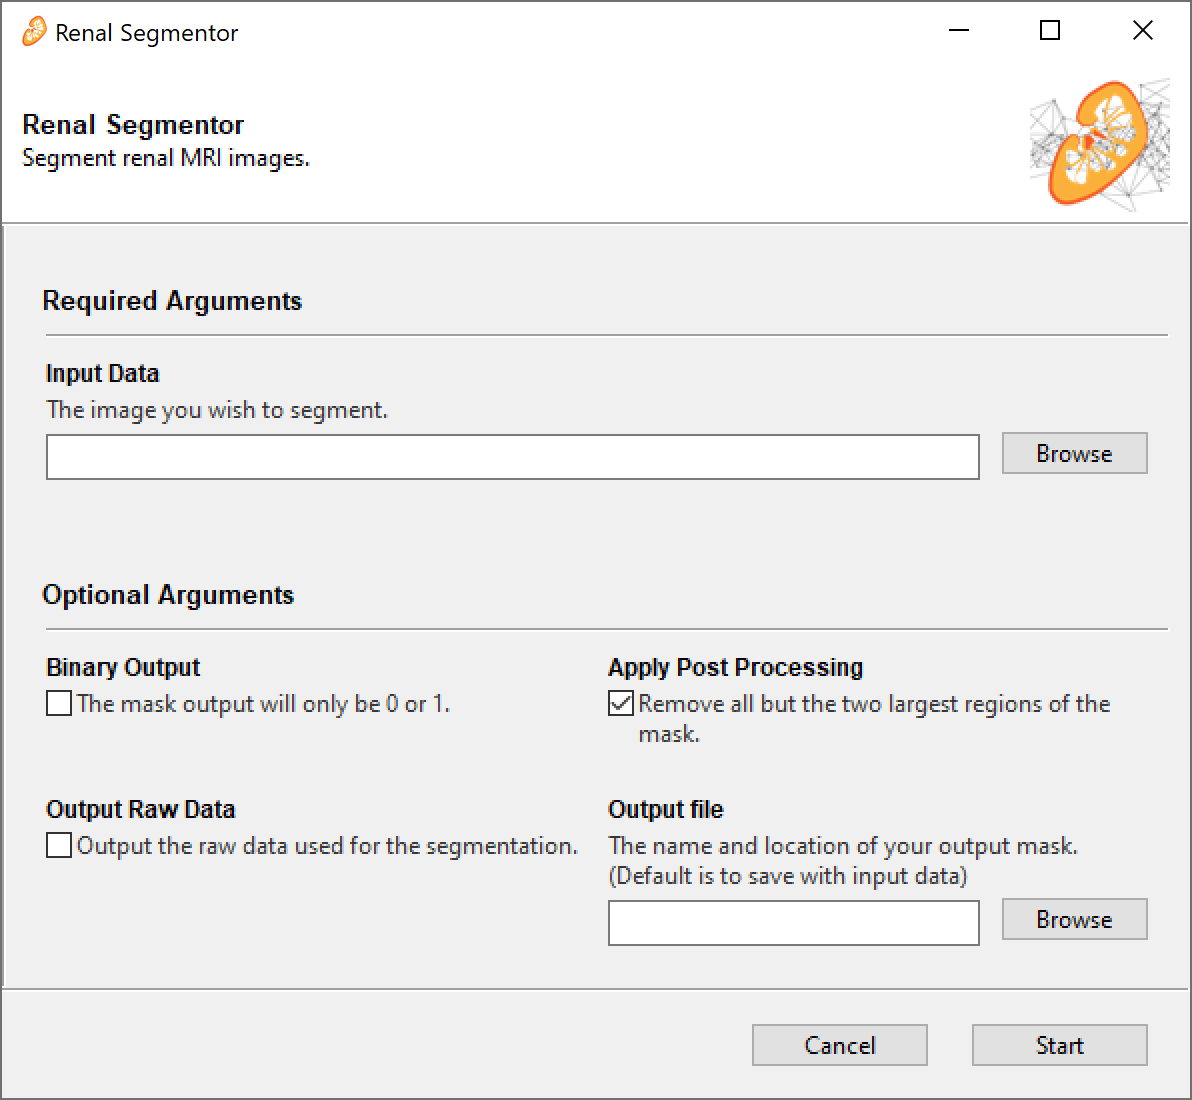
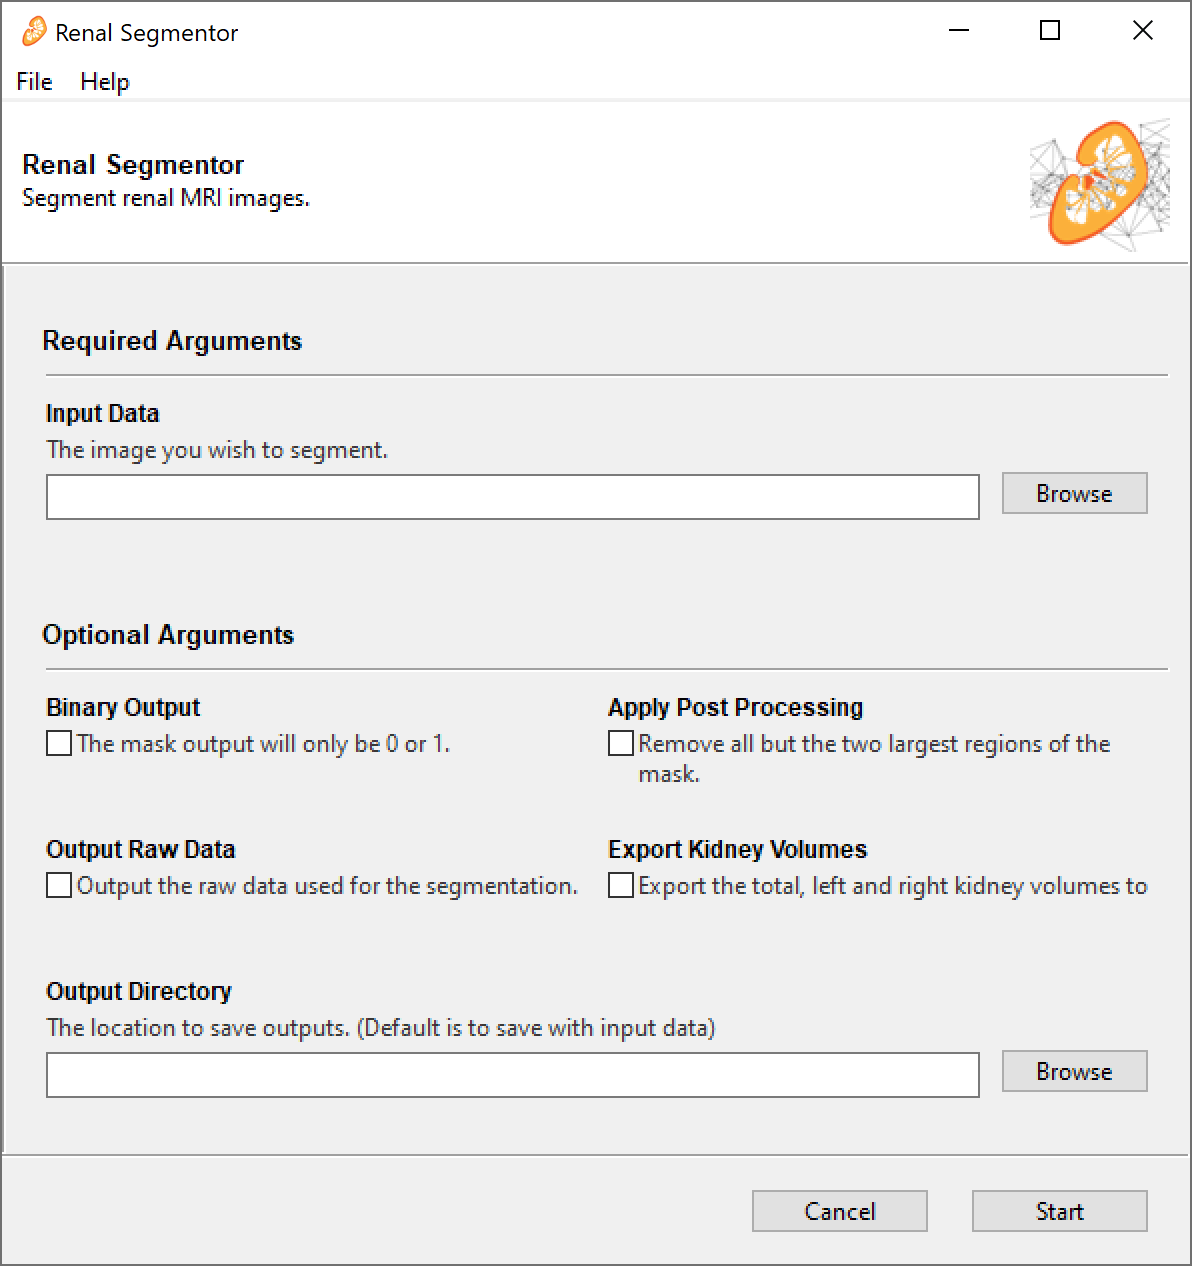
Update readme and changelog

diff --git a/renal_segmentor.py b/renal_segmentor.py
@@ -221,7 +221,7 @@ if len(sys.argv) >= 2:
 
 @Gooey(program_name='Renal Segmentor',
        image_dir=resource_path('./images'),
-       default_size=(610, 620),
+       default_size=(610, 640),
        progress_regex=r"^Processed (?P<current>\d+) of (?P<total>\d+) files$",
        progress_expr="current / total * 100",
        timing_options={'show_time_remaining': True,

diff --git a/README.md b/README.md
@@ -15,18 +15,19 @@ An application to segment kidneys from renal MRI data using a convolutional neur
 2. Double click `renal_segmentor.exe`. The GUI takes quite a long time to load (~30 sec) and doesn't have a splash screen so be patient.
 3. Once the GUI has loaded, click `Browse` and select all the raw data you want to segment. You can select multiple files at once. Supported file types are `.PAR/.REC`, `.nii`, `.nii.gz` and `.img/.hdr`, other file types supported by [nibable](https://nipy.org/nibabel/api.html#file-formats) may work but are untested.
 4. If you want the mask to be just 0s and 1s tick the `binary` check box, if you want the CNNs probability that the voxel is a kidney, leave it unchecked.
-5. Post-processing is applied by default. This discards all but the two largest connected regions in the mask in theory retaining only the two kidneys and removing any erroneous unconnected regions. It should be noted that because post-processing keeps only two regions, care should be taken if using this application with transplant patients as they may have three kidneys. To disabel post-processing, untick the box.
+5. Post-processing can be applied, this discards all but the two largest connected regions in the mask in theory retaining only the two kidneys and removing any erroneous unconnected regions. It should be noted that because post-processing keeps only two regions, care should be taken if using this application with transplant patients as they may have three kidneys.
 6. Tick the `raw` checkbox if you want the raw image data to be saved as a `.nii.gz` file in the same location as the mask (can be useful if you're using `.PAR/REC` as your input).
-7. The masks are output from the segmentor as `.nii.gz` with `_mask` added to the original file name e.g. the mask of `sub_01.PAR` is `sub_01_mask.nii.gz`. By default, the mask is output to the same place as the raw data, if you would like the masks to be output to a different directory click `Browse` under `Output Directory` and select the folder you wish the masks to go to.
-8. Click start.
-9. The application will run and a few seconds later a box will appear saying the program completed successfully. 
-10. If you want to segment some more data click the `edit` button on the bottom of the finished screen, if you're done, click `close`.
+7. If you would like a `.csv` file containing the Total Kidney Volume (TKV), Left Kidney Volume (LKV) and Right Kidney Volume (RKV) for each image that was segmented tick the `Export Kidney Volumes` box.
+8. The masks are output from the segmentor as `.nii.gz` with `_mask` added to the original file name e.g. the mask of `sub_01.PAR` is `sub_01_mask.nii.gz`. By default, the mask is output to the same place as the raw data, if you would like the masks to be output to a different directory click `Browse` under `Output Directory` and select the folder you wish the masks to go to.
+9. Click start.
+10. The application will run and a few seconds later a box will appear saying the program completed successfully. 
+11. If you want to segment some more data click the `edit` button on the bottom of the finished screen, if you're done, click `close`.
+
+![Interface](images/screenshot.png)
 
 ### Via a Command Line Interface (CLI)
 1. Download the [latest release](https://github.com/alexdaniel654/Renal_Segmentor/releases/latest/download/renal_segmentor.exe)
 2. Run the `renal_segmentor.exe -h` to generate a list of available parameters. The application runs via a command line if any input arguments are specified, if not, it opens as a GUI.
-
-![Interface](images/screenshot.png)
 
 ## Citing Renal Segmentor
 If you have made use of renal segmentor for your work, please cite Daniel AJ, _et al_. Automated renal segmentation in healthy and chronic kidney disease subjects using a convolutional neural network. Magnetic Resonance in Medicine 2021;86:1125–1136 doi: [https://doi.org/10.1002/mrm.28768](https://doi.org/10.1002/mrm.28768). Alternatively if you wish to cite a specific software version, each release has an individual DOI on Zenodo, the DOI for the latest release can be [found here](https://doi.org/10.5281/zenodo.4068850).
@@ -36,7 +37,6 @@ If you have made use of renal segmentor for your work, please cite Daniel AJ, _e
 The methods used in this software are outlined in Daniel AJ, _et al_. Automated renal segmentation in healthy and chronic kidney disease subjects using a convolutional neural network. Magnetic Resonance in Medicine 2021;86:1125–1136 doi: [https://doi.org/10.1002/mrm.28768](https://doi.org/10.1002/mrm.28768).
 
 The dataset used to train this network is freely available on Zenodo, doi: [https://doi.org/10.5281/zenodo.5153567](https://doi.org/10.5281/zenodo.5153567).
-
 
 ## Contributing
 

diff --git a/CHANGELOG.md b/CHANGELOG.md
@@ -4,6 +4,7 @@
 ## Unmerged
 
 ### Added
+* Kidney volume calculations #32
 * Process multiple files at once #30 #194
 * Menu bar with about, help and latest version links #40 #41
 
